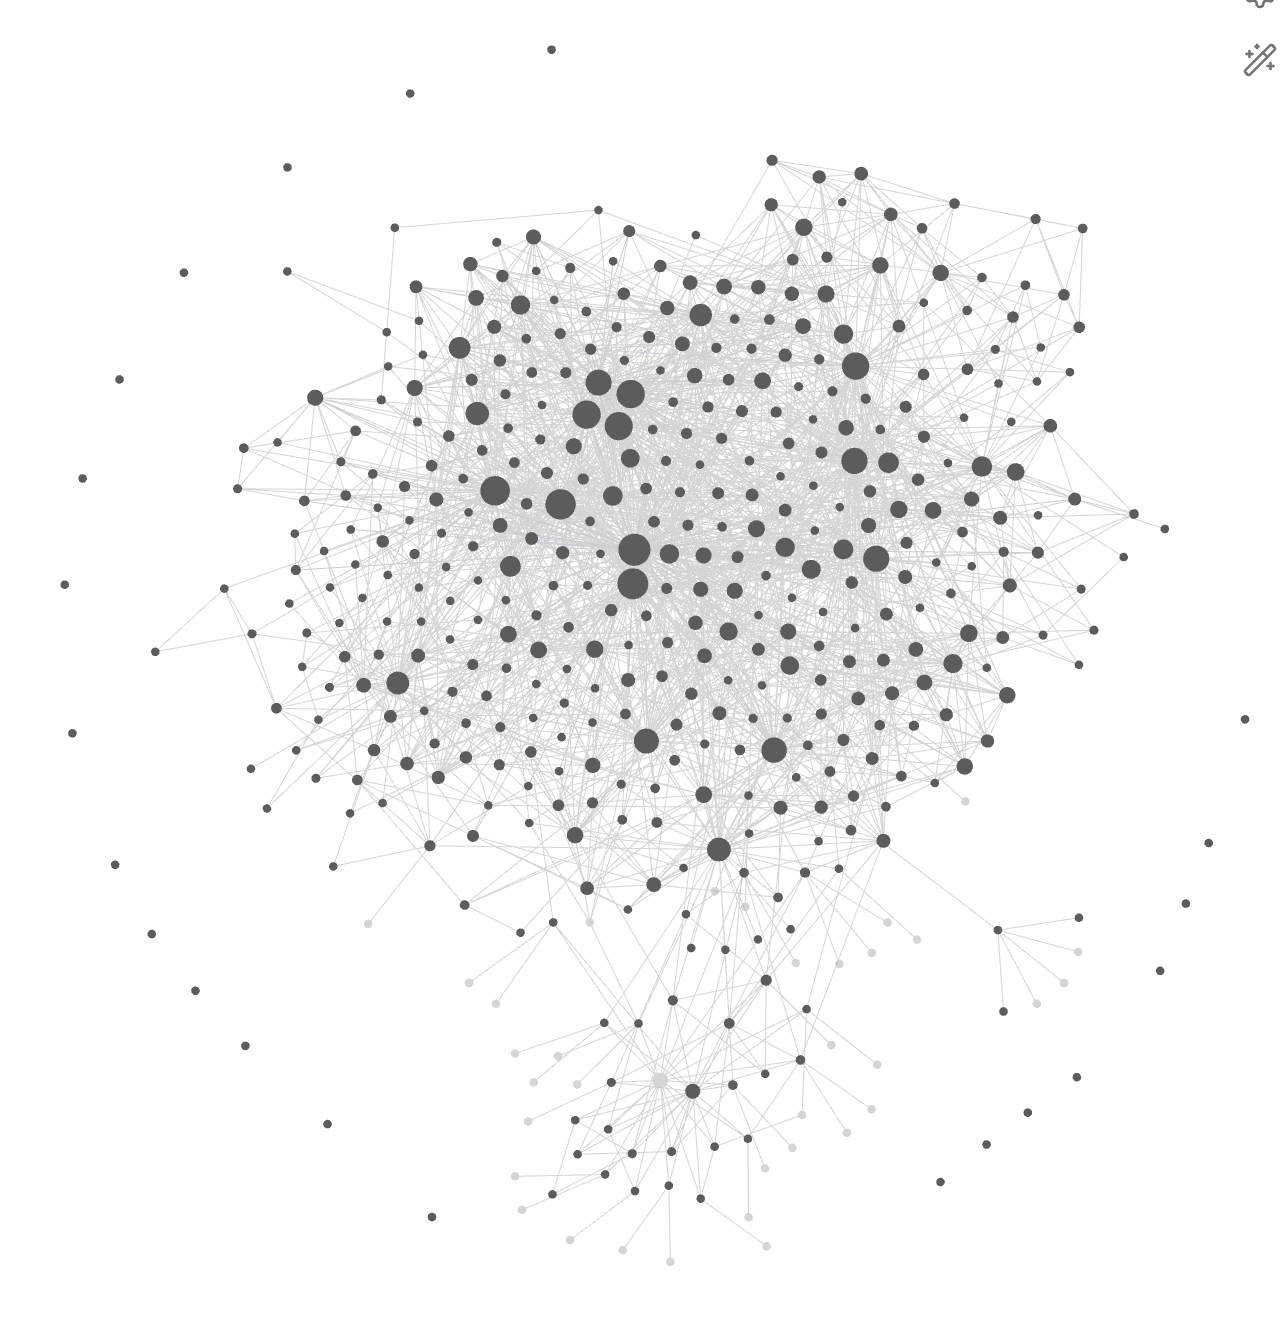
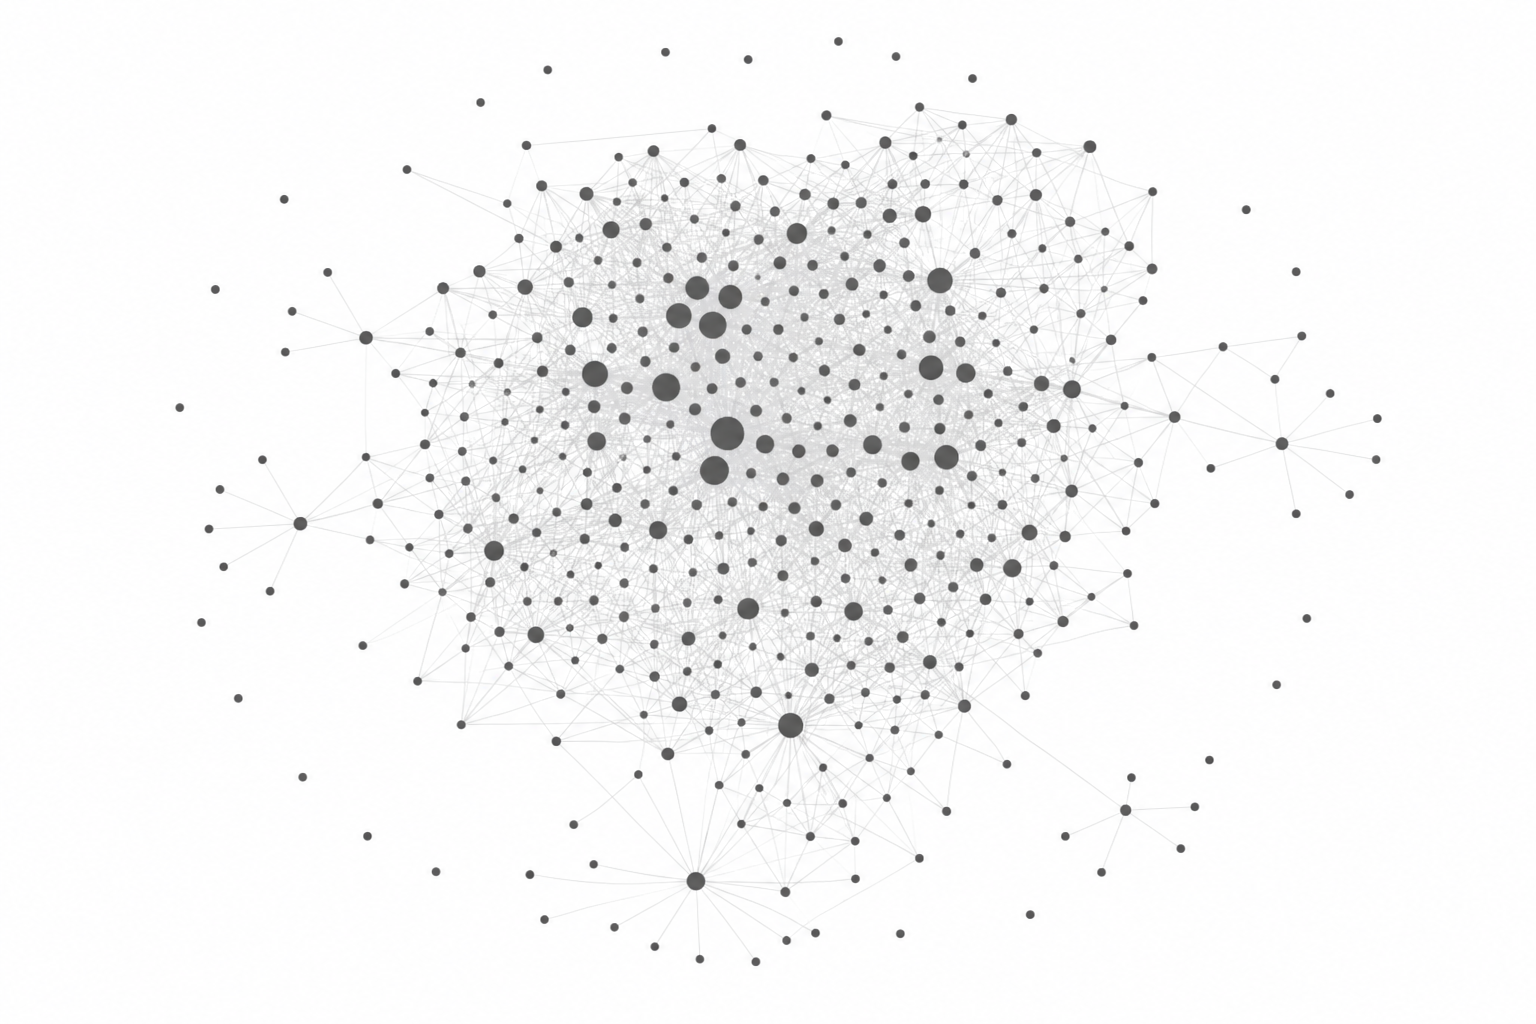
Update README images and plugin settings screenshot
Refresh CLI and graph screenshots for Vault Linker, document image regeneration, and show plugin settings in the README.

diff --git a/scripts/generate_readme_images.py b/scripts/generate_readme_images.py
@@ -1,0 +1,135 @@
+#!/usr/bin/env python3
+"""Regenerate README images (graphs + CLI screenshot)."""
+
+from __future__ import annotations
+
+import io
+import random
+import subprocess
+import sys
+from pathlib import Path
+
+REPO = Path(__file__).resolve().parents[1]
+IMAGES = REPO / "images"
+FIXTURE = IMAGES / "fixtures" / "demo-vault"
+
+
+def render_graph(path: Path, edge_probability: float, seed: int) -> None:
+    import matplotlib.pyplot as plt
+    import networkx as nx
+
+    random.seed(seed)
+    node_count = 280
+    graph = nx.Graph()
+    graph.add_nodes_from(range(node_count))
+
+    hub = random.randint(0, node_count - 1)
+    spokes = random.sample(range(node_count), k=42)
+    for node in spokes:
+        graph.add_edge(hub, node)
+        for _ in range(3):
+            if random.random() < edge_probability:
+                other = random.randint(0, node_count - 1)
+                if other != node:
+                    graph.add_edge(node, other)
+
+    positions = nx.spring_layout(graph, seed=seed, k=0.45, iterations=80)
+    degrees = dict(graph.degree())
+    sizes = [18 + degrees[node] * 9 for node in graph.nodes()]
+
+    fig, axis = plt.subplots(figsize=(8, 6), facecolor="white")
+    axis.set_facecolor("white")
+    nx.draw_networkx_edges(
+        graph,
+        positions,
+        ax=axis,
+        width=0.35,
+        alpha=0.25,
+        edge_color="#9aa0a6",
+    )
+    nx.draw_networkx_nodes(
+        graph,
+        positions,
+        ax=axis,
+        node_size=sizes,
+        node_color="#4a4a4a",
+        linewidths=0,
+    )
+    axis.axis("off")
+    fig.tight_layout(pad=0)
+    fig.savefig(path, dpi=160, bbox_inches="tight", facecolor="white")
+    plt.close(fig)
+
+
+def capture_cli_output() -> str:
+    cmd = [
+        sys.executable,
+        "-m",
+        "vault_linker.cli",
+        str(FIXTURE),
+        "--dry-run",
+        "-v",
+        "--jobs",
+        "8",
+        "--no-self-links",
+    ]
+    completed = subprocess.run(
+        cmd,
+        cwd=REPO,
+        capture_output=True,
+        text=True,
+        check=True,
+    )
+    lines = completed.stdout.strip().splitlines()
+    header = [
+        f"vault-linker % vaultlinker {FIXTURE.name}/ --dry-run -v --jobs 8",
+        "",
+    ]
+    # Keep terminal height readable in README.
+    tail = lines[-18:] if len(lines) > 18 else lines
+    return "\n".join(header + tail)
+
+
+def render_terminal(path: Path, text: str) -> None:
+    from PIL import Image, ImageDraw, ImageFont
+
+    font_size = 15
+    try:
+        font = ImageFont.truetype("/System/Library/Fonts/Menlo.ttc", font_size)
+    except OSError:
+        font = ImageFont.load_default()
+
+    lines = text.splitlines()
+    line_height = font_size + 4
+    padding = 24
+    width = 920
+    height = padding * 2 + line_height * len(lines)
+
+    image = Image.new("RGB", (width, height), "#1e1e1e")
+    draw = ImageDraw.Draw(image)
+    y = padding
+    for line in lines:
+        color = "#7ee787" if line.startswith("vault-linker") else "#d4d4d4"
+        if "%" in line and "vaultlinker" in line:
+            color = "#7ee787"
+        if "Total links" in line or "Total files" in line:
+            color = "#e5c07b"
+        if "dry run" in line:
+            color = "#9cdcfe"
+        draw.text((padding, y), line, fill=color, font=font)
+        y += line_height
+
+    image.save(path, format="PNG")
+
+
+def main() -> None:
+    IMAGES.mkdir(parents=True, exist_ok=True)
+    render_graph(IMAGES / "before.png", edge_probability=0.08, seed=11)
+    render_graph(IMAGES / "after.png", edge_probability=0.55, seed=23)
+    cli_text = capture_cli_output()
+    render_terminal(IMAGES / "usage.png", cli_text)
+    print(f"Wrote images to {IMAGES}")
+
+
+if __name__ == "__main__":
+    main()

diff --git a/README.md b/README.md
@@ -5,21 +5,24 @@
 
 ## Overview
 
-Vault Linker is a tool designed to help you manage and link your notes in Obsidian. It provides various features to enhance your note-taking experience.
+Vault Linker links note titles and YAML aliases across your Obsidian vault as wikilinks. Use the **CLI** (`vaultlinker`) for batch jobs, parallelism, and automation, or the **community plugin** for link, audit, and unlink from inside Obsidian.
 
 ## Linking
 
 <p float="left">
-  <img src="images/before.png" alt="Before" width="45%" />
-  <img src="images/after.png" alt="After" width="45%" />
+  <img src="images/before.png" alt="Graph before linking: mostly isolated notes" width="45%" />
+  <img src="images/after.png" alt="Graph after linking: denser connections" width="45%" />
 </p>
+
+*Obsidian graph view before and after running Vault Linker on a vault (illustrative).*
 
 ## Features
 
-- Automatic linking of notes
-- Uses Wikilink format
-- Skip links in metadata
-- Skip links in codeblocks, inline code
+- Automatic wikilinks for note titles and YAML aliases
+- **Parallel runs** with `--jobs` (read / process / write phases)
+- Dry-run, backup, output copy, globs, and incremental state
+- **Audit** broken links, pending links, and backlink stats; **unlink** managed title links
+- Skips metadata, code blocks, embeds, and markdown links (CLI + plugin)
 
 ## Linking Process
 
@@ -48,7 +51,6 @@ Package: **[vaultlinker on PyPI](https://pypi.org/project/vaultlinker/)**
 ```sh
 pip install vaultlinker
 vaultlinker /path/to/vault/ --help
-# or: vaultlinker /path/to/vault/ --help
 ```
 
 ### From source
@@ -69,7 +71,9 @@ pip install -r requirements.txt
 
 ## Usage
 
-![Usage Image](images/usage.png)
+![Vault Linker CLI dry run with parallel jobs](images/usage.png)
+
+*`vaultlinker` dry run with verbose progress (`-v`) and eight workers (`--jobs 8`).*
 
 After installation:
 
@@ -137,6 +141,8 @@ vaultlinker /path/to/vault/ --include-glob 'notes/**' --exclude-glob 'templates/
 
 ### Audit and unlink
 
+![Vault Linker audit report in the terminal](images/audit.png)
+
 Audit the vault (no file changes):
 
 ```sh
@@ -170,7 +176,11 @@ vaultlinker /path/to/vault/ --ignore-file ./linker-ignore.txt
 
 ## Obsidian plugin
 
-A community plugin lives in [`plugin/`](plugin/) (source); `manifest.json`, `versions.json`, and `main.js` are at the **repo root** for Obsidian’s directory scanner. Build with `cd plugin && npm install && npm run build`, then submit via [community.obsidian.md](https://community.obsidian.md). See [plugin/README.md](plugin/README.md) and [PUBLISHING.md](PUBLISHING.md).
+Install **Vault Linker** from **Settings → Community plugins**, or build from [`plugin/`](plugin/) (source). Release assets (`manifest.json`, `versions.json`, `main.js`) live at the **repo root** for Obsidian’s directory scanner.
+
+![Vault Linker plugin settings](images/plugin-settings.png)
+
+See [plugin/README.md](plugin/README.md) and [PUBLISHING.md](PUBLISHING.md).
 
 Make sure to back up your vault before using this tool, as in-place runs can make irreversible edits unless you use `--dry-run` or `--output`.
 ## Running Tests

diff --git a/images/README.md b/images/README.md
@@ -1,0 +1,21 @@
+# README images
+
+| File | Purpose |
+|------|---------|
+| `before.png` / `after.png` | Graph-style before/after linking |
+| `usage.png` | CLI dry run with `-v` and `--jobs` |
+| `audit.png` | CLI `--audit` summary |
+| `plugin-settings.png` | Obsidian plugin settings tab |
+
+## Regenerate
+
+From the repo root (requires `matplotlib`, `networkx`, `pillow`):
+
+```sh
+python3 -m venv .venv
+source .venv/bin/activate
+pip install -e ".[dev]" matplotlib networkx pillow
+PYTHONPATH=. python scripts/generate_readme_images.py
+```
+
+The script uses `images/fixtures/demo-vault/` for real CLI output in `usage.png` and redraws the graph PNGs. Replace `audit.png` manually or extend the script if you change audit output formatting.

diff --git a/plugin/README.md b/plugin/README.md
@@ -22,6 +22,8 @@ Desktop Obsidian plugin that adds `[[wikilinks]]` when note titles (and optional
 
 Settings align with the CLI: self-links, aliases, H1 headings, skip headings, min title length, ignored phrases.
 
+![Vault Linker plugin settings](../images/plugin-settings.png)
+
 CLI-only features: `--incremental`, `--jobs`, path globs, `--output` / `--backup`.
 
 The [Python CLI](../README.md) (`pip install vaultlinker`) supports incremental runs, globs, and backups for larger workflows.

diff --git a/images/fixtures/demo-vault/Daily Note.md b/images/fixtures/demo-vault/Daily Note.md
@@ -1,0 +1,7 @@
+Today I read about object-oriented programming and functional programming.
+I also want to revisit programming fundamentals.
+
+```python
+# programming examples stay unlinked
+print("programming")
+```

diff --git a/images/fixtures/demo-vault/Object-Oriented Programming.md b/images/fixtures/demo-vault/Object-Oriented Programming.md
@@ -1,0 +1,8 @@
+---
+aliases:
+  - OOP
+---
+
+# Object-Oriented Programming
+
+Core ideas for object-oriented programming.

diff --git a/images/fixtures/demo-vault/Functional Programming.md b/images/fixtures/demo-vault/Functional Programming.md
@@ -1,0 +1,3 @@
+# Functional Programming
+
+Immutability and pure functions.

diff --git a/images/fixtures/demo-vault/Programming.md b/images/fixtures/demo-vault/Programming.md
@@ -1,0 +1,3 @@
+# Programming
+
+Notes about software development.
